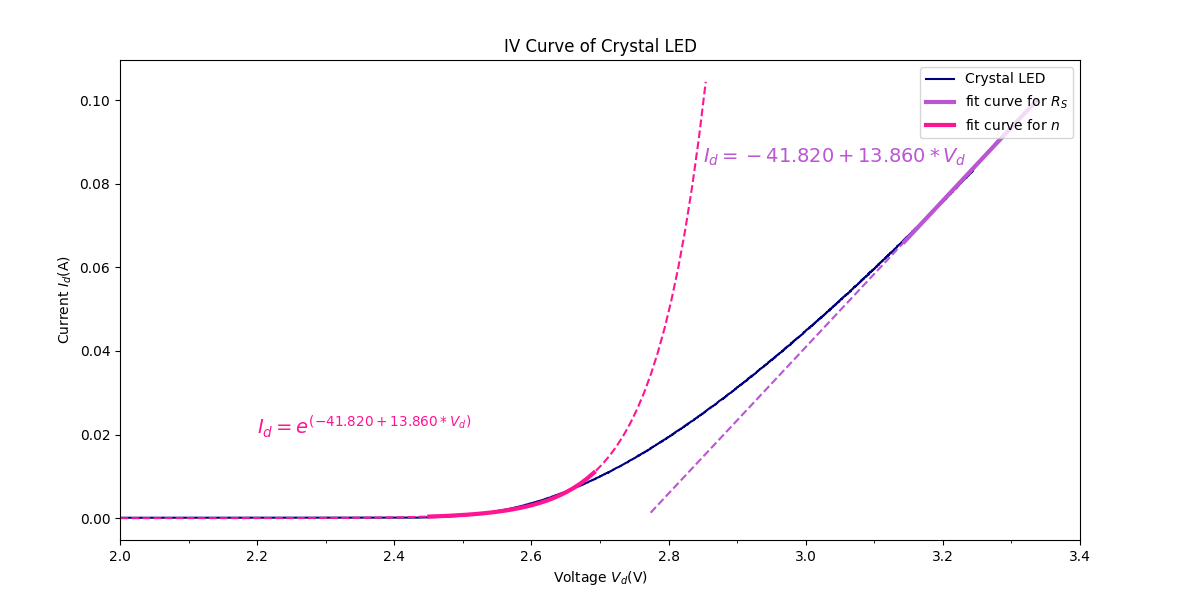
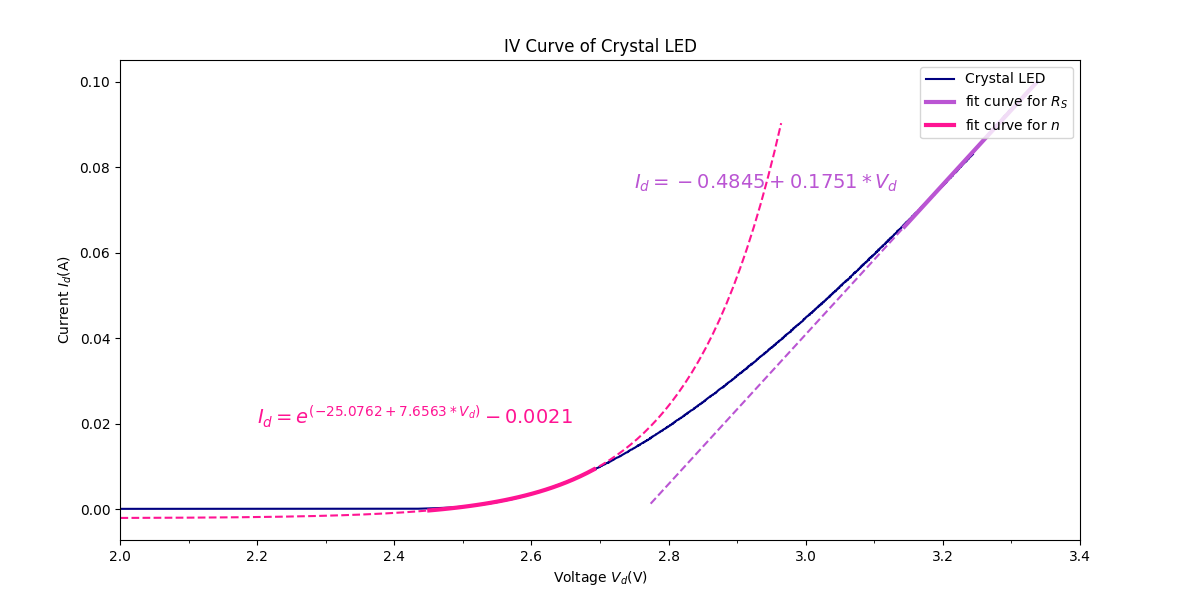
UPDATE Exp05 Fit Curve

diff --git a/EOExp05/EOExp05.py b/EOExp05/EOExp05.py
@@ -55,17 +55,20 @@ for i in range(len(filenames)):
         axes[i].plot([i for i in np.arange(x_data[1000], x_data[-1], 0.01)], [fit[0][0]+fit[0][1]*i for i in np.arange(x_data[1000], x_data[-1], 0.01)], label=r'fit curve for $R_{S}$', color=colors[5], linewidth=3)
         axes[i].plot([i for i in np.arange(x_data[250], x_data[-1], 0.01)], [fit[0][0]+fit[0][1]*i for i in np.arange(x_data[250], x_data[-1], 0.01)], linestyle='--', color=colors[5])
 
-        fit = scipy.optimize.curve_fit(lambda t,a,b: a+b*t,  x_data[3:150],  [np.log(y) for y in y_data[3:150]],  p0=(1, 0.1))
-        print(f'exp ( {fit[0][0]:.4f} + {fit[0][1]:.4f} * v )')
-        axes[i].plot([i for i in np.arange(x_data[3], x_data[150], 0.01)], [np.exp(fit[0][0]+fit[0][1]*i) for i in np.arange(x_data[3], x_data[150], 0.01)], label=r'fit curve for $n$', color=colors[9], linewidth=3)
-        axes[i].plot([i for i in np.arange(x_data[0], x_data[400], 0.01)], [np.exp(fit[0][0]+fit[0][1]*i) for i in np.arange(x_data[0], x_data[400], 0.01)], linestyle='--', color=colors[9])
-        
         if(i==2):
-            axes[i].text(2.85, 0.085, rf'$I_d={fit[0][0]:.3f} + {fit[0][1]:.3f} * V_d$', fontsize=14, color=colors[5])
-            axes[i].text(2.2, 0.02, rf'$I_d=e^{{({fit[0][0]:.3f} + {fit[0][1]:.3f} * V_d)}}$', fontsize=14, color=colors[9])
+            axes[i].text(2.75, 0.075, rf'$I_d={fit[0][0]:.4f} + {fit[0][1]:.4f} * V_d$', fontsize=14, color=colors[5])
         else:
-            axes[i].text(2.5, 0.008, rf'$I_d={fit[0][0]:.3f} + {fit[0][1]:.3f} * V_d$', fontsize=14, color=colors[5])
-            axes[i].text(2.2, 0.002, rf'$I_d=e^{{({fit[0][0]:.3f} + {fit[0][1]:.3f} * V_d)}}$', fontsize=14, color=colors[9])
+            axes[i].text(2.5, 0.008, rf'$I_d={fit[0][0]:.4f} + {fit[0][1]:.4f} * V_d$', fontsize=14, color=colors[5])
+
+        fit = scipy.optimize.curve_fit(lambda t,a,b,c: np.exp(a+b*t)-c,  x_data[3:150], y_data[3:150], p0=(-10, 0.01, 0.001), maxfev=4000)
+        print(f'exp ( {fit[0][0]:.4f} + {fit[0][1]:.4f} * v ) - {fit[0][2]:.4f}')
+        axes[i].plot([i for i in np.arange(x_data[3], x_data[150], 0.01)], [np.exp(fit[0][0]+fit[0][1]*i)-fit[0][2] for i in np.arange(x_data[3], x_data[150], 0.01)], label=r'fit curve for $n$', color=colors[9], linewidth=3)
+        axes[i].plot([i for i in np.arange(x_data[0], x_data[600], 0.01)], [np.exp(fit[0][0]+fit[0][1]*i)-fit[0][2] for i in np.arange(x_data[0], x_data[600], 0.01)], linestyle='--', color=colors[9])
+
+        if(i==2):
+            axes[i].text(2.2, 0.02, rf'$I_d=e^{{({fit[0][0]:.4f} + {fit[0][1]:.4f} * V_d)}}-{fit[0][2]:.4f}$', fontsize=14, color=colors[9])
+        else:
+            axes[i].text(2.2, 0.002, rf'$I_d=e^{{({fit[0][0]:.4f} + {fit[0][1]:.4f} * V_d)}}-{fit[0][2]:.4f}$', fontsize=14, color=colors[9])
         
     axes[i].xaxis.set_major_locator(MultipleLocator(major_locators[i]))
     axes[i].xaxis.set_minor_locator(MultipleLocator(minor_locators[i]))
